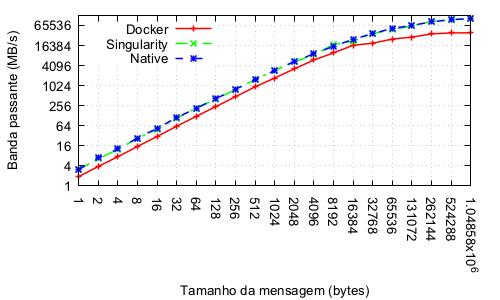
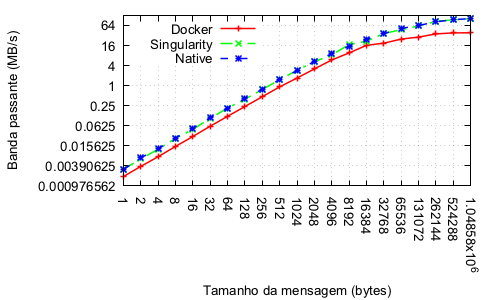
Fixes passing band plot

diff --git a/plots/ping-pong/passing-band/calculate-passing-band.py b/plots/ping-pong/passing-band/calculate-passing-band.py
@@ -11,7 +11,7 @@ for line in lines:
     size_bytes = int(line.split(' ')[0])
     time = float(line.split(' ')[1])/1000
 
-    megabytes_per_second = (float(size_bytes)/1024)/time
+    megabytes_per_second = (float(size_bytes)/(1024*1024))/time
     current_line = str(size_bytes) + ' ' + str(megabytes_per_second) + '\n'
     passing_band_text = passing_band_text + current_line
 
